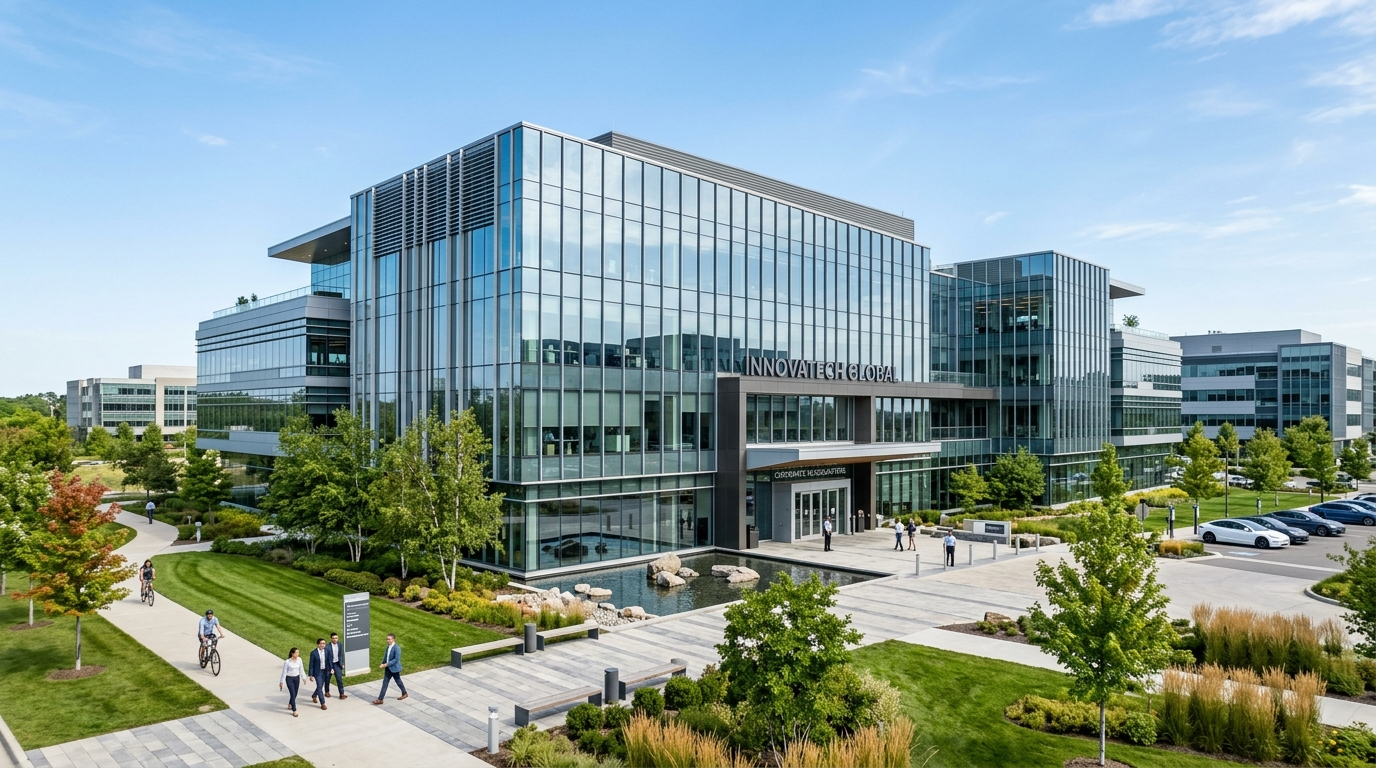
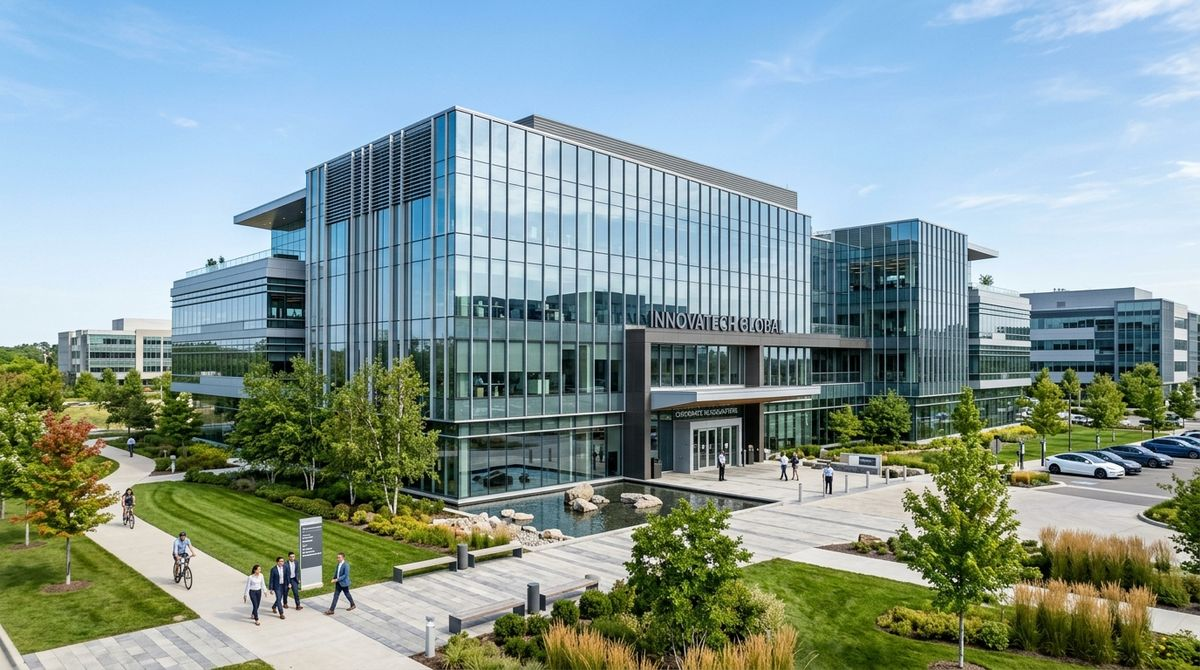
website changes

diff --git a/blog.html b/blog.html
@@ -27,7 +27,7 @@
   <meta property="og:type" content="blog">
 
   <!-- Favicon -->
-  <link rel="icon" type="image/png" href="assets/nitesh-alag.png">
+  <link rel="icon" type="image/png" href="assets/favicon.png">
 
   <!-- Google Fonts: Cinzel, Cormorant Garamond & Plus Jakarta Sans -->
   <link rel="preconnect" href="https://fonts.googleapis.com">
@@ -45,7 +45,7 @@
   <header class="navbar" id="navbar">
     <div class="container">
       <a href="index.html" class="brand" aria-label="Vastu by Nitesh Home">
-        <img src="assets/vastu-logo.png" alt="Vastu by Nitesh Logo" class="brand-logo-img">
+        <img src="assets/vastu-logo.webp" alt="Vastu by Nitesh Logo" class="brand-logo-img" width="192" height="160">
         <div class="brand-text">
           <h1>Vastu by Nitesh</h1>
           <span>Vastu Shastra & Spatial Harmony</span>
@@ -100,7 +100,7 @@
         <!-- Medium Author Bar -->
         <div class="medium-author-bar">
           <div class="medium-author-info">
-            <img src="assets/nitesh-alag.png" alt="Nitesh Alag" class="medium-author-avatar">
+            <img src="assets/nitesh-alag-sm.webp" alt="Nitesh Alag" class="medium-author-avatar" width="128" height="128">
             <div class="medium-author-text">
               <h4>Nitesh Alag</h4>
               <p>Vastu Shastra Expert • 22+ Years IT Veteran • 1,000+ Case Studies</p>

diff --git a/index.html b/index.html
@@ -48,7 +48,7 @@
   </script>
 
   <!-- Favicon -->
-  <link rel="icon" type="image/png" href="assets/nitesh-alag.png">
+  <link rel="icon" type="image/png" href="assets/favicon.png">
 
   <!-- Google Fonts: Cinzel, Cormorant Garamond & Plus Jakarta Sans -->
   <link rel="preconnect" href="https://fonts.googleapis.com">
@@ -66,7 +66,7 @@
   <header class="navbar" id="navbar">
     <div class="container">
       <a href="#hero" class="brand" aria-label="Vastu by Nitesh Home">
-        <img src="assets/vastu-logo.png" alt="Vastu by Nitesh Logo" class="brand-logo-img">
+        <img src="assets/vastu-logo.webp" alt="Vastu by Nitesh Logo" class="brand-logo-img" width="192" height="160">
         <div class="brand-text">
           <h1>Vastu by Nitesh</h1>
           <span>Vastu Shastra & Vedic Astrology</span>
@@ -188,7 +188,7 @@
             <div class="hero-mandala-frame">
               <div class="mandala-aura"></div>
               <div class="hero-img-box">
-                <img src="assets/nitesh-alag.png" alt="Nitesh Alag - Vastu Shastra Expert" loading="eager">
+                <img src="assets/nitesh-alag.webp" alt="Nitesh Alag - Vastu Shastra Expert" loading="eager" fetchpriority="high" width="880" height="880">
               </div>
               <div class="hero-floating-card">
                 <div class="floating-icon">🏢</div>

diff --git a/js/data.js b/js/data.js
@@ -31,8 +31,8 @@ const PROFILE_DATA = {
   bookingsCount: "63+",
   testimonialsCount: "18+",
   caseStudiesCount: "1,000+",
-  avatar: "assets/nitesh-alag.png",
-  avatarFallback: "assets/nitesh-alag.png",
+  avatar: "assets/nitesh-alag.webp",
+  avatarFallback: "assets/nitesh-alag.webp",
   jobTitle: "🏢 Systematic Vastu for IT Parks, Commercial Hubs & Modern Apartments 🏡 Non-Demolition Spatial Remedies & L-ROD Energy Scanning 🔮 Vedic Astrology, Muhurat & Prashna Kundali Consultations 🌍 Over 12+ years, guiding clients across India and globally",
   headlinePoints: [
     "🏢 Systematic Vastu for IT Parks, Commercial Hubs & Modern Apartments",
@@ -405,7 +405,7 @@ const BLOG_POSTS_DATA = [
     readTime: "6 min read",
     date: "Jul 2026",
     image: "https://cdn-images-1.medium.com/max/1024/1*MNXRi6JQCv0utduHaXBXxw.png",
-    fallbackImage: "assets/vastu-logo.png",
+    fallbackImage: "assets/vastu-logo.webp",
     mediumUrl: "https://niteshalaagh.medium.com/the-silent-salesperson-why-your-logo-is-subconsciously-make-or-break-decision-c8a717c9f1bd",
     summary: "Why your next corporate logo shouldn't start with a designer's mood board, but with elemental physics: why Red rules food, Blue is chosen for IT, and how geometry governs subconscious customer trust.",
     bullets: [
